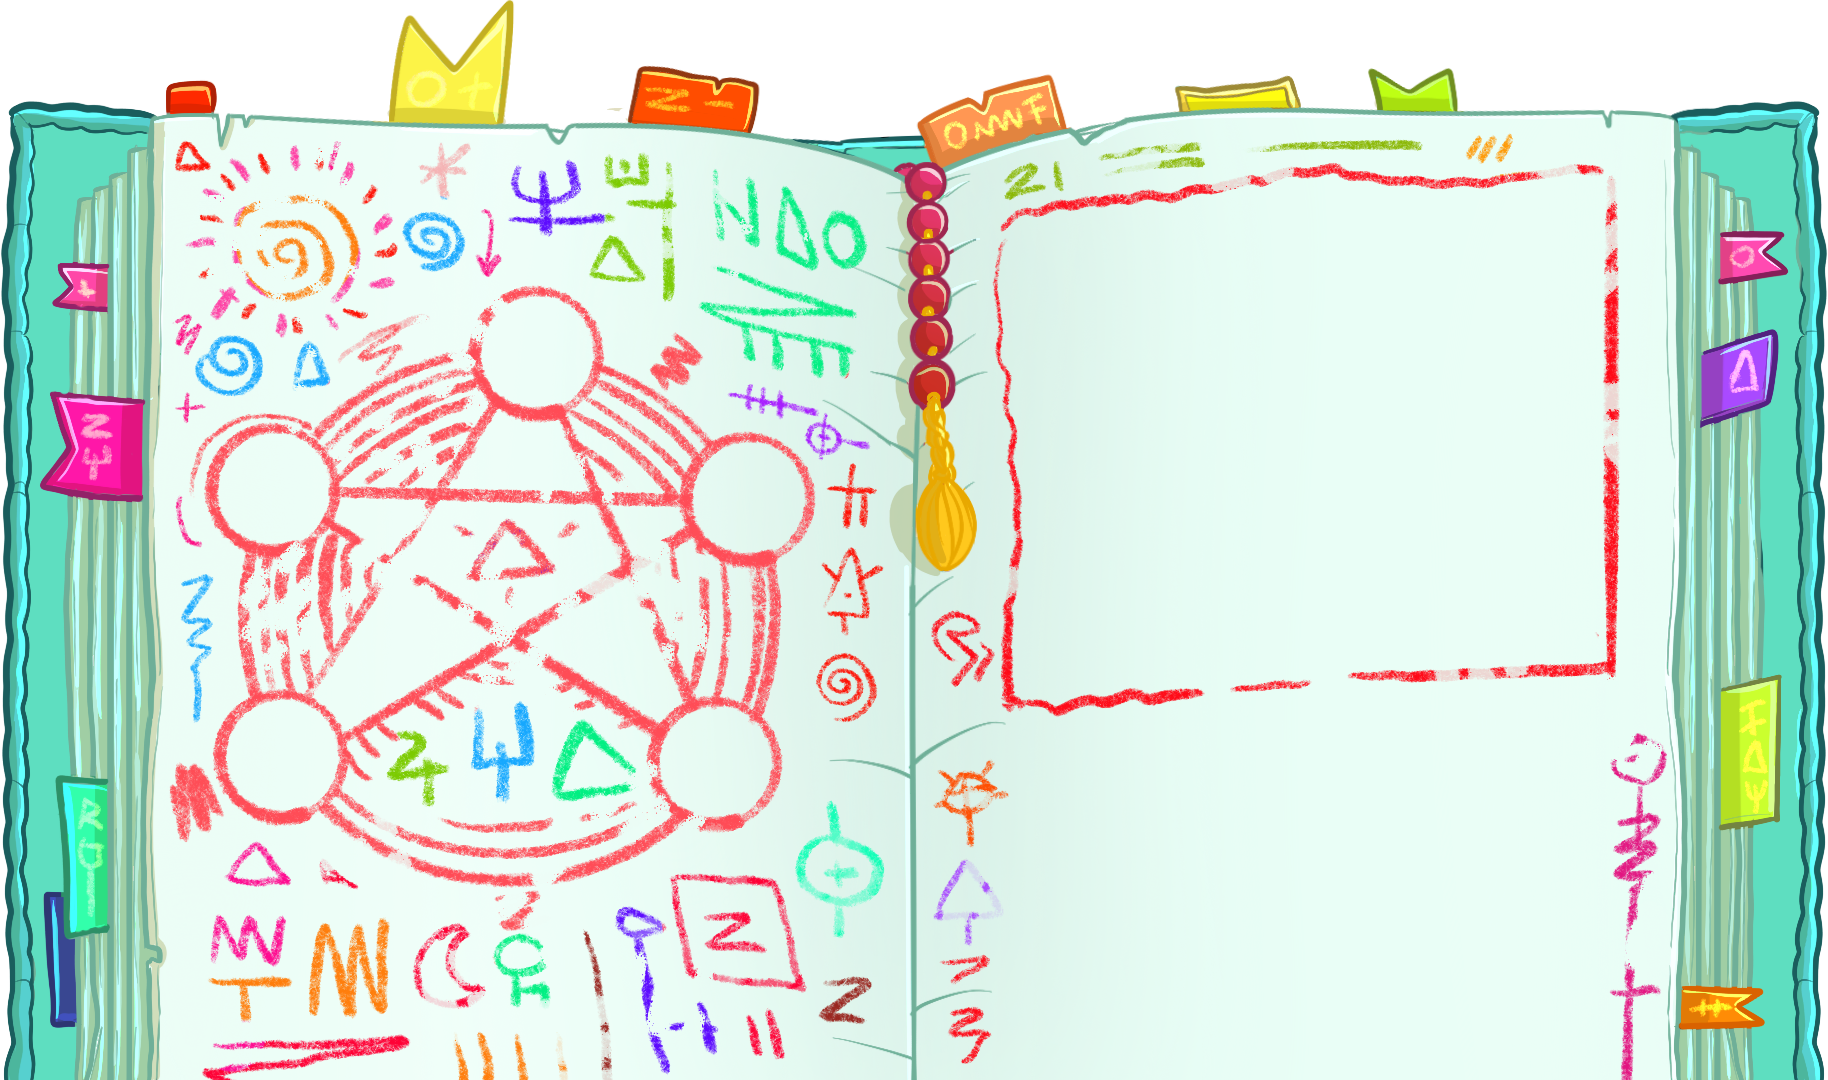
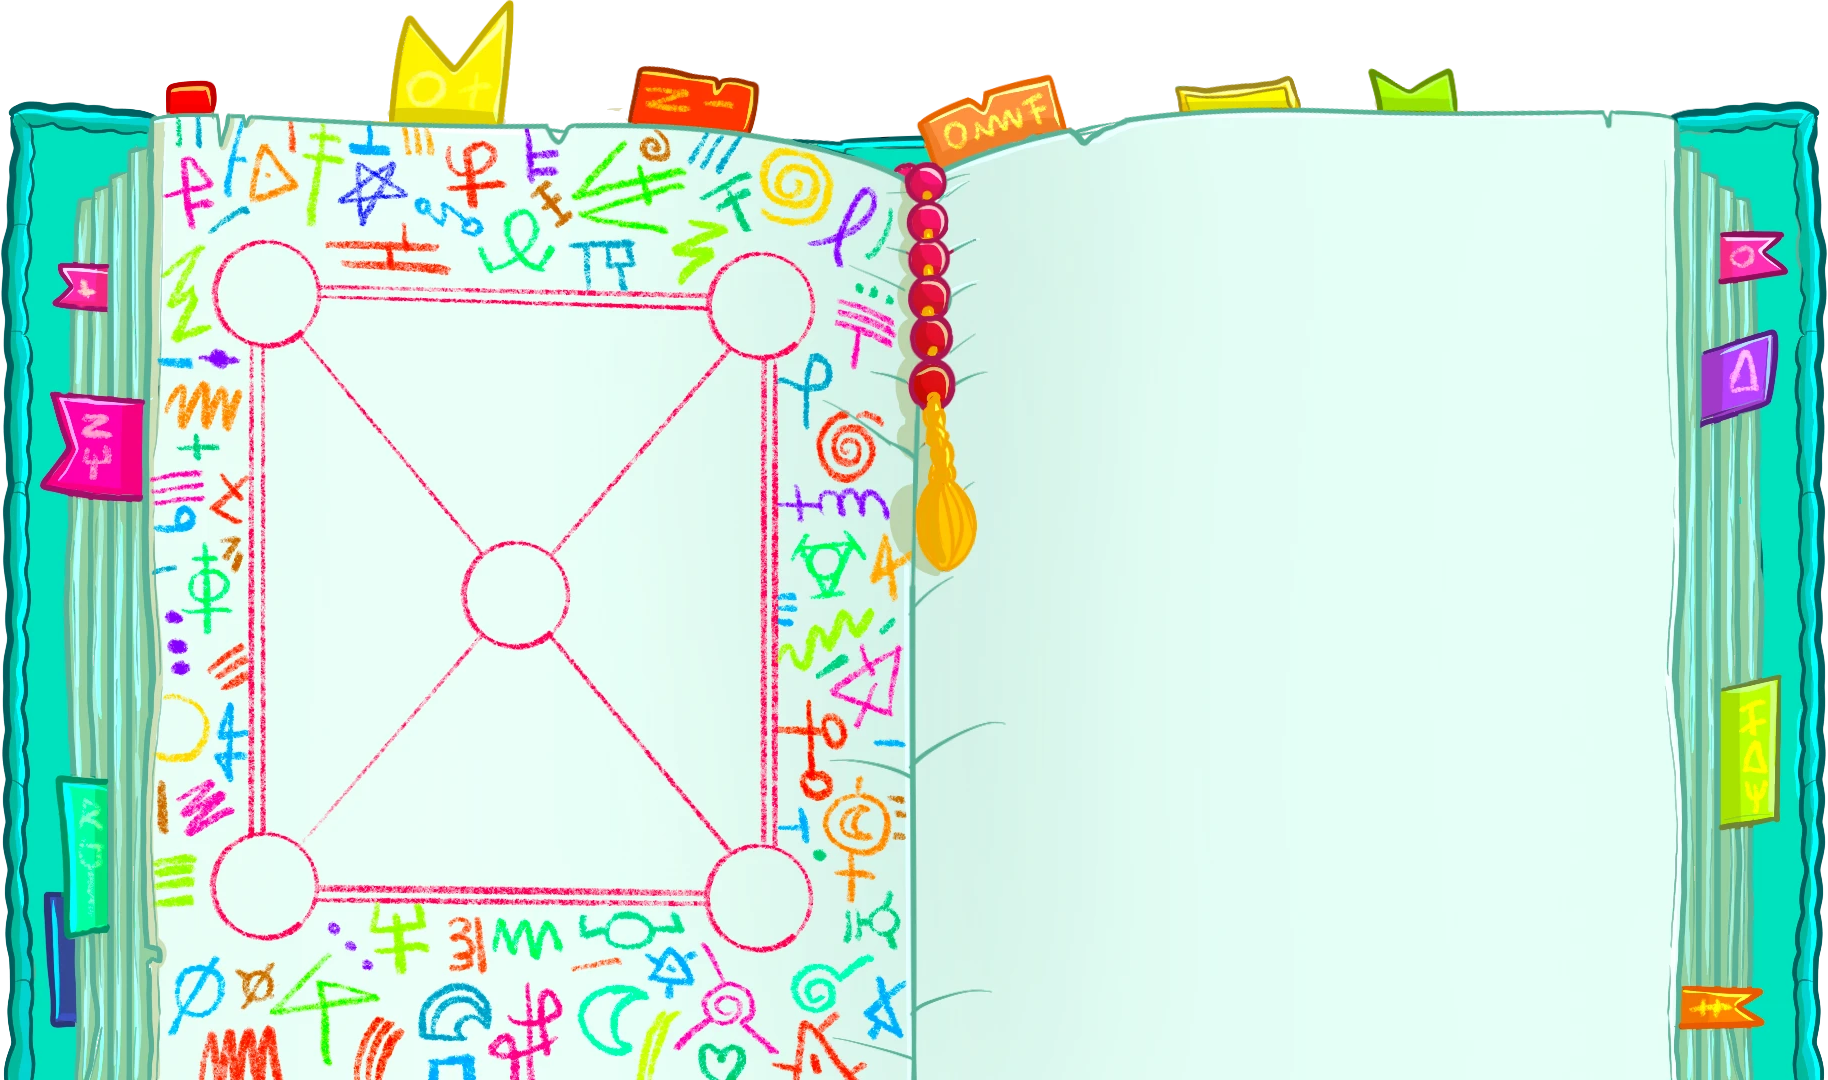
feat: le Grimoire passe au carré, et le sort choisi se repasse au crayon
Nouveau dessin du Grimoire : les cinq ronds forment un carré, Vitalité
au centre et les quatre autres aux coins. La page droite n'a plus de
cadre rouge.

Le sort choisi se désigne au crayon, dans le rouge du pentacle : un bout
d'arc esquissé au survol ou au focus clavier, puis le cercle repassé en
entier et ses rayons, retracés à chaque clic. Le médaillon tient dans
son rond au repos et le recouvre une fois choisi, sans dépasser
l'échelle 1 : l'image reste nette. Les autres pâlissent. La gerbe
d'étincelles et le halo doré disparaissent.

diff --git a/components/SpellPentacle.vue b/components/SpellPentacle.vue
@@ -6,39 +6,53 @@
       v-for="spell in SPELL_IDS"
       :key="spell"
       class="@container group pointer-events-auto absolute aspect-square w-[6.6%] -translate-x-1/2 -translate-y-1/2"
-      :style="ROUNDS[spell]"
+      :style="{ left: ROUNDS[spell].left, top: ROUNDS[spell].top }"
     >
-      <!-- Découvert : son médaillon, et tout le rond qui le choisit. Le choisi
-           grossit et brille de l'or des étincelles du livre. Le survol se lit
-           sur le rond (`group`) : le bouton posé par-dessus le médaillon
-           l'empêcherait d'être survolé lui-même.
+      <!-- Découvert : son médaillon, et tout le rond qui le choisit. Le
+           choix se dit au crayon, comme tout le dessin de la page : un bout
+           d'arc esquissé au survol, le cercle repassé en entier et ses rayons
+           sur le choisi. Les autres pâlissent, à leur taille de repos : leur
+           rond reste rempli. Le survol se lit sur le rond (`group`) — le
+           bouton posé par-dessus le médaillon l'empêcherait d'être survolé
+           lui-même — et le focus clavier fait le même effet.
 
-           Au clic, un saut en dessin animé et une gerbe d'étincelles. Changer
-           de clé remonte le médaillon et la gerbe : l'effet se rejoue à chaque
-           clic, même sur le rond déjà choisi. -->
+           Le choisi, à l'échelle 1, recouvre le rond dessiné, trait rouge
+           compris (Ø 110 px sur l'image, la boîte en fait 120). Les autres
+           tiennent dedans (Ø 100 px), réduits, survol compris. Un `scale`
+           au-dessus de 1 étire le rendu déjà rastérisé, et l'image sort floue.
+           `will-change` fige ce rendu à la taille du médaillon, plafond de tous
+           ses états.
+
+           Au clic, un petit rebond, et le cercle se repasse. Seuls le
+           médaillon et le cercle cliqués changent de clé : remontés, ils
+           rejouent l'effet, même déjà choisis. Les autres, gardés, passent
+           d'un état à l'autre en fondu. -->
       <template v-if="discovered.includes(spell)">
+        <CrayonRing
+          :key="replays[spell]"
+          :drawn="selected === spell"
+          :facing="ROUNDS[spell].facing"
+          class="absolute -left-[30%] -top-[30%] size-[160%] text-pentacle"
+        />
         <SpellMedallion
-          :key="`medallion-${picked?.spell === spell ? picked.key : 0}`"
+          :key="replays[spell]"
           :spell="spell"
           face="mixed"
-          class="size-full transition-[scale] duration-200 group-hover:scale-125"
+          class="absolute inset-0 size-full [will-change:transform,scale] transition-[scale,filter,opacity] duration-200 motion-reduce:transition-none"
           :class="[
             selected === spell
-              ? 'scale-110 [filter:drop-shadow(0_0_4px_#fde68a)_drop-shadow(0_0_12px_#f59e0b)]'
-              : '[filter:drop-shadow(0_2px_3px_rgb(0_0_0/0.35))]',
-            picked?.spell === spell ? 'motion-safe:animate-spell-pick' : '',
+              ? 'motion-safe:animate-spell-pick'
+              : 'scale-[0.73] drop-shadow-[0_2px_3px_rgb(0_0_0/0.35)] group-hover-or-focus:scale-[0.78]',
+            selected && selected !== spell
+              ? 'opacity-60 grayscale-70 group-hover-or-focus:opacity-100 group-hover-or-focus:grayscale-0'
+              : '',
           ]"
-          fallback-class="border-2 border-red-500/60 text-[50cqw] text-red-500"
-        />
-        <SparkleSpray
-          v-if="picked?.spell === spell"
-          :key="`spray-${picked.key}`"
-          :sparks="PICK_SPRAY"
-          class="drop-shadow-[0_0_6px_#fde68a]"
+          fallback-class="border-2 border-pentacle/60 text-[50cqw] text-pentacle"
         />
         <BaseSurfaceButton
           :label="spellLabel(spell)"
           :aria-pressed="selected === spell"
+          class="rounded-full"
           @click="pick(spell)"
         />
       </template>
@@ -50,7 +64,7 @@
         v-else
         role="img"
         aria-label="Sort pas encore découvert"
-        class="flex size-full -rotate-6 select-none items-center justify-center text-[70cqw] font-bold leading-none text-red-500/85"
+        class="flex size-full -rotate-6 select-none items-center justify-center text-[70cqw] font-bold leading-none text-pentacle/85"
       >?</span>
     </div>
   </div>
@@ -70,41 +84,37 @@ defineProps<{
 /** Le sort que la page droite montre, null tant que rien n'est choisi. */
 const selected = defineModel<SpellId | null>({ required: true })
 
-/** Le dernier clic sur un rond : quel sort, et une clé neuve qui rejoue l'effet. */
-const picked = ref<{ spell: SpellId, key: number } | null>(null)
+/** Combien de fois chaque rond a été cliqué : sa clé, qui remonte son médaillon et rejoue l'effet. */
+const replays = ref<Partial<Record<SpellId, number>>>({})
 
 function pick(spell: SpellId): void {
   selected.value = spell
-  picked.value = { spell, key: (picked.value?.key ?? 0) + 1 }
+  replays.value[spell] = (replays.value[spell] ?? 0) + 1
 }
 
 /**
- * La gerbe du clic : dix étincelles en couronne, deux longueurs, qui partent
- * au sommet du saut du médaillon (`animate-spell-pick`, 35 %). En cqw, sur la
- * largeur du rond.
- */
-const PICK_SPRAY = Array.from({ length: 10 }, (_, index) => {
-  const angle = ((index * 36 + (index % 2) * 14) * Math.PI) / 180
-  const distance = index % 2 ? 60 : 90
-
-  return {
-    dx: `${Math.round(Math.cos(angle) * distance)}cqw`,
-    dy: `${Math.round(Math.sin(angle) * distance)}cqw`,
-    size: index % 2 ? '14%' : '20%',
-    delay: `${(0.25 + (index % 3) * 0.04).toFixed(2)}s`,
-  }
-})
-
-/**
- * Le centre de chaque rond, en % de la boîte du livre, relevé sur l'image. Ordre
- * du catalogue, en partant du haut, dans le sens des aiguilles d'une montre. Un
+ * Chaque rond, relevé sur l'image. Vitalité au centre, les quatre autres aux
+ * coins du carré, de haut à droite dans le sens des aiguilles d'une montre. Un
  * sort par rond, tous : un sort ajouté au catalogue ne compile pas sans le sien.
  */
-const ROUNDS: Record<SpellId, { left: string, top: string }> = {
-  VITALITY: { left: '29.3%', top: '32.6%' },
-  RESPITE: { left: '41%', top: '46.3%' },
-  CHRONOMANCY: { left: '39.1%', top: '70.1%' },
-  INDULGENCE: { left: '15.3%', top: '69.6%' },
-  PURGE: { left: '14.8%', top: '45.8%' },
+const ROUNDS: Record<SpellId, {
+  /** Le centre, en % de la boîte du livre. */
+  left: string
+  top: string
+  /**
+   * Le côté le plus dégagé, où le crayon esquisse son arc au survol : en
+   * degrés depuis le haut, dans le sens des aiguilles d'une montre, mesuré en
+   * pixels de l'image. Un coin regarde à l'opposé du centre, dans l'axe de sa
+   * diagonale. Le centre regarde vers le plus large des creux que les
+   * diagonales laissent autour de lui, environ 100° : l'esquisse
+   * (`--crayon-hint`, components/CrayonRing.vue) y tient.
+   */
+  facing: number
+}> = {
+  VITALITY: { left: '28.3%', top: '55%', facing: 90 },
+  RESPITE: { left: '41.7%', top: '28.2%', facing: 40 },
+  CHRONOMANCY: { left: '41.5%', top: '83.1%', facing: 141 },
+  INDULGENCE: { left: '14.6%', top: '81.9%', facing: -139 },
+  PURGE: { left: '14.6%', top: '27.1%', facing: -40 },
 }
 </script>

diff --git a/components/CrayonRing.vue b/components/CrayonRing.vue
@@ -1,0 +1,97 @@
+<template>
+  <!-- Un cercle repassé au crayon gras, comme le pentacle sous lui. La place
+       et la taille viennent de l'appelant ; `overflow-visible` laisse dépasser
+       les traits qui rayonnent. L'esquisse suit le survol de l'ancêtre `group`,
+       ou son focus clavier.
+
+       Le cercle est toujours dessiné en entier ; un masque conique en dévoile
+       la part déjà passée au crayon. Il balaie depuis le bout d'arc de
+       l'esquisse, centré sur `facing` et large de `--crayon-hint`, puis
+       referme le cercle dans le sens des aiguilles d'une montre. Les tirets
+       SVG (`stroke-dashoffset`) le feraient aussi, mais Chrome les affiche mal
+       sous un filtre. -->
+  <svg
+    viewBox="0 0 100 100"
+    class="pointer-events-none overflow-visible duration-300 ease-out [--crayon-hint:90deg] [mask-image:conic-gradient(from_calc(var(--facing)-var(--crayon-hint)/2),#000_var(--crayon-sweep),transparent_0)] [transition-property:--crayon-sweep] motion-reduce:transition-none"
+    :class="drawn
+      ? '[--crayon-sweep:360deg] motion-safe:animate-crayon-draw'
+      : '[--crayon-sweep:0deg] group-hover-or-focus:[--crayon-sweep:var(--crayon-hint)]'"
+    :style="{ '--facing': `${facing}deg` }"
+    aria-hidden="true"
+  >
+    <defs>
+      <!-- Le crayon : un tracé qui tremble (première turbulence, basse
+           fréquence), puis troué de grain (seconde, haute fréquence), comme
+           la cire qui accroche le papier. -->
+      <filter :id="filterId" x="-30%" y="-30%" width="160%" height="160%">
+        <feTurbulence type="fractalNoise" baseFrequency="0.09" numOctaves="2" seed="4" result="wobble" />
+        <feDisplacementMap in="SourceGraphic" in2="wobble" scale="2.5" xChannelSelector="R" yChannelSelector="G" result="wobbly" />
+        <feTurbulence type="fractalNoise" baseFrequency="1.1" numOctaves="1" seed="9" result="grain" />
+        <feColorMatrix in="grain" type="matrix" values="0 0 0 0 0  0 0 0 0 0  0 0 0 0 0  -1.5 0 0 0 1.6" result="holes" />
+        <feComposite in="wobbly" in2="holes" operator="in" />
+      </filter>
+    </defs>
+
+    <g :filter="`url(#${filterId})`" stroke="currentColor" fill="none" stroke-linecap="round">
+      <path :d="RING_PATH" :stroke-width="drawn ? 6 : 4" />
+      <!-- Les rayons jaillissent quand le cercle est presque refermé :
+           `crayon-draw` dure 0,4 s. -->
+      <template v-if="drawn">
+        <line
+          v-for="(ray, index) in RAYS"
+          :key="index"
+          v-bind="ray"
+          stroke-width="4.5"
+          class="origin-center [transform-box:view-box] motion-safe:animate-crayon-ray"
+          :style="{ animationDelay: `${0.3 + index * 0.03}s` }"
+        />
+      </template>
+    </g>
+  </svg>
+</template>
+
+<script setup lang="ts">
+// Le cercle qu'on repasse au crayon autour d'un rond du pentacle : esquissé
+// au survol, tracé en entier quand le rond est choisi, avec quelques traits
+// qui rayonnent. Voir components/SpellPentacle.vue.
+
+defineProps<{
+  /** Le cercle entier et ses rayons. Sinon rien, ou un bout d'arc au survol. */
+  drawn: boolean
+  /**
+   * Où pointe le bout d'arc du survol, en degrés depuis le haut, dans le sens
+   * des aiguilles d'une montre : vers le côté le plus dégagé.
+   */
+  facing: number
+}>()
+
+const filterId = `crayon-${useId()}`
+
+/**
+ * Un point du viewBox, autour de son centre (50, 50). L'angle se compte comme
+ * `facing` et le masque conique : en degrés depuis le haut, dans le sens des
+ * aiguilles d'une montre — un seul repère dans tout le composant.
+ */
+function point(degrees: number, radius: number): [string, string] {
+  const angle = ((degrees - 90) * Math.PI) / 180
+  return [(50 + Math.cos(angle) * radius).toFixed(2), (50 + Math.sin(angle) * radius).toFixed(2)]
+}
+
+/**
+ * Un peu plus d'un tour, de rayon qui flotte : la main ne referme jamais un
+ * cercle pile sur son départ. Le masque choisit ce qui s'en voit ; le départ,
+ * lui, ne fixe que l'endroit où le trait se chevauche, en haut.
+ */
+const RING_PATH = Array.from({ length: 73 }, (_, index) => {
+  const turn = index / 72
+  const [x, y] = point(-10 + turn * 380, 40 + turn * 2 + Math.sin(turn * 11) * 0.8)
+  return `${index ? 'L' : 'M'}${x} ${y}`
+}).join(' ')
+
+/** Les traits qui rayonnent : sept, irréguliers, en couronne hors du cercle. */
+const RAYS = [10, 55, 95, 140, 185, 235, 290].map((degrees, index) => {
+  const [x1, y1] = point(degrees, 47)
+  const [x2, y2] = point(degrees, 47 + (index % 2 ? 6 : 9))
+  return { x1, y1, x2, y2 }
+})
+</script>

diff --git a/assets/css/main.css b/assets/css/main.css
@@ -3,6 +3,12 @@
 @theme {
   --font-sans: 'Platypi', ui-sans-serif, system-ui, sans-serif;
 
+  /* Le rouge du pentacle du Grimoire, choisi à l'œil pour aller avec le
+     crayon de public/images/spellbook.webp : ce qui s'y ajoute par-dessus le
+     dessin (cercle repassé, point d'interrogation) le reprend. Voir
+     components/SpellPentacle.vue. */
+  --color-pentacle: #dc1f5f;
+
   /* Le coffre fermé qui remue, comme si quelque chose bougeait dedans :
      0,6 s de secousses, puis 0,3 s de repos, pour que ça reste un indice et
      non un tremblement continu. Voir components/ChestCard.vue. */
@@ -201,20 +207,37 @@
     100% { opacity: 0; transform: translate(var(--dx), var(--dy)) scale(0.2) rotate(180deg); }
   }
 
-  /* Le médaillon choisi au pentacle du Grimoire, en dessin animé : il se
-     ramasse (anticipation), jaillit étiré en tournant, retombe trop large et
-     tremble avant de se poser. Une lueur dorée le traverse au sommet, quand la
-     gerbe part. Voir components/SpellPentacle.vue. */
-  --animate-spell-pick: spell-pick 0.8s ease-out;
+  /* Le médaillon choisi au pentacle du Grimoire : un petit rebond sur son
+     centre, pendant que le crayon trace son cercle. Il se ramasse sans
+     jamais dépasser sa taille : au-delà de 1, l'image déjà rastérisée
+     s'étirerait et sortirait floue. Voir components/SpellPentacle.vue. */
+  --animate-spell-pick: spell-pick 0.5s ease-out;
 
   @keyframes spell-pick {
     0% { transform: scale(1); }
-    15% { transform: translateY(10%) scale(1.25, 0.75); }
-    35% { transform: translateY(-25%) scale(0.8, 1.3) rotate(-12deg); filter: drop-shadow(0 0 6px #fde68a) drop-shadow(0 0 18px #f59e0b); }
-    55% { transform: translateY(0) scale(1.2, 0.9) rotate(8deg); filter: drop-shadow(0 0 4px #fde68a) drop-shadow(0 0 12px #f59e0b); }
-    70% { transform: scale(0.92, 1.08) rotate(-4deg); }
-    85% { transform: scale(1.04, 0.97) rotate(1deg); }
+    25% { transform: scale(0.86); }
+    55% { transform: scale(1); }
+    75% { transform: scale(0.96); }
     100% { transform: scale(1); }
+  }
+
+  /* Le cercle repassé au crayon du sort choisi : il part du bout d'arc
+     esquissé au survol (`--crayon-hint`) et se referme d'un geste. Voir
+     components/CrayonRing.vue. */
+  --animate-crayon-draw: crayon-draw 0.4s ease-out;
+
+  @keyframes crayon-draw {
+    from { --crayon-sweep: var(--crayon-hint); }
+  }
+
+  /* Un trait qui rayonne autour du cercle tracé : il jaillit du centre et se
+     pose. components/CrayonRing.vue décale chacun d'un délai. */
+  --animate-crayon-ray: crayon-ray 0.3s ease-out both;
+
+  @keyframes crayon-ray {
+    0% { opacity: 0; transform: scale(0.75); }
+    60% { opacity: 1; transform: scale(1.06); }
+    100% { opacity: 1; transform: scale(1); }
   }
 
   /* Le climax du sort qui jaillit, calé sur `animate-emerge` (même durée,
@@ -797,6 +820,31 @@
 
   @keyframes fade-in {
     from { opacity: 0; }
+  }
+}
+
+/* L'angle déjà passé au crayon autour d'un rond du pentacle. Déclaré pour
+   être un angle, pas un texte : il peut alors s'animer. Voir
+   components/CrayonRing.vue. */
+@property --crayon-sweep {
+  syntax: '<angle>';
+  inherits: false;
+  initial-value: 0deg;
+}
+
+/* Un rond du pentacle qu'on désigne : survolé, ou son bouton au focus
+   clavier. Le survol se lit sur l'ancêtre `group`, comme `group-hover`, et
+   seulement là où un pointeur survole vraiment. Voir
+   components/SpellPentacle.vue. */
+@custom-variant group-hover-or-focus {
+  @media (hover: hover) {
+    &:is(:where(.group):hover *) {
+      @slot;
+    }
+  }
+
+  &:is(:where(.group):has(:focus-visible) *) {
+    @slot;
   }
 }
 

diff --git a/pages/index/sorts.vue b/pages/index/sorts.vue
@@ -47,10 +47,9 @@
         Grimoire
       </CampOverlayTitle>
 
-      <!-- La page droite : le cadre rouge dessiné sur l'image montre le sort
-           choisi et de quoi le lancer ; dessous, l'historique de ses derniers
-           lancers. Positions relevées sur l'image,
-           en % du livre. -->
+      <!-- La page droite : en haut, le sort choisi et de quoi le lancer ;
+           dessous, l'historique de ses derniers lancers. Positions relevées sur
+           l'image, en % du livre. -->
       <div class="pointer-events-none absolute inset-0" v-bind="fadeLayer(closing, '0.7s')">
         <BaseCloseButton
           label="Fermer le Grimoire"
@@ -58,8 +57,7 @@
           @click="close"
         />
 
-        <!-- Dans le cadre rouge, un peu en retrait de son trait. Il défile si
-             la description déborde, sur un petit écran. -->
+        <!-- Il défile si la description déborde, sur un petit écran. -->
         <div class="pointer-events-auto absolute bottom-[37%] left-[56.5%] right-[13.5%] top-[18%] overflow-y-auto text-sm leading-snug text-amber-950">
           <p
             v-if="!selected"

diff --git a/specs/ecrans.md b/specs/ecrans.md
@@ -129,8 +129,8 @@ Message de félicitations, précédé du verdict de la dernière question. Phase
 Nommé **Grimoire** côté joueur. Atteignable **au camp seulement** (l'attente, puis le rattrapage tant qu'il n'a pas commencé), par l'icône baguette ou le grimoire du camp. Il s'ouvre **par-dessus le camp**, qui reste affiché dessous : un livre ouvert qui jaillit du bas, grossit et rebondit en se posant, couvert d'étincelles, son titre « Grimoire » au-dessus. Échap, la croix ou un clic à côté le referment. Pas de version mobile pour l'instant. Trois choses :
 
 - Le **pentacle**, page gauche — un rond par sort du catalogue. Un sort jamais obtenu y garde un point d'interrogation et ne se choisit pas ; un sort **découvert** — encore en poche ou déjà lancé — y montre son médaillon, même sans exemplaire. Un clic le choisit, et la page droite le montre.
-- Le **lancer**, page droite, dans le cadre rouge — tant que rien n'est choisi, une invite à choisir au pentacle. Le sort choisi y montre sa description (celle de son infobulle), ses exemplaires en poche et un bouton par catégorie de cible (soi, allié, ennemi ; soi seulement sans équipe), éteints sans exemplaire ou sans lancer restant. La cible réelle n'est pas annoncée avant : le tirage est pondéré mais imprévisible. Elle l'est après, au retour du lancer. Deux lancers par attente, quels qu'ils soient : les boutons s'éteignent une fois les deux dépensés, sans afficher le nombre restant.
-- L'**historique**, sous le cadre — les cinq derniers lancers du sort choisi, une ligne chacun : sa cible, et le jour (« Aujourd'hui », « Hier », « Il y a 3 jours », puis la date passé une semaine). Rien tant qu'aucun sort n'est choisi. C'est là que le lanceur apprend qui il a touché.
+- Le **lancer**, page droite, en haut — tant que rien n'est choisi, une invite à choisir au pentacle. Le sort choisi y montre sa description (celle de son infobulle), ses exemplaires en poche et un bouton par catégorie de cible (soi, allié, ennemi ; soi seulement sans équipe), éteints sans exemplaire ou sans lancer restant. La cible réelle n'est pas annoncée avant : le tirage est pondéré mais imprévisible. Elle l'est après, au retour du lancer. Deux lancers par attente, quels qu'ils soient : les boutons s'éteignent une fois les deux dépensés, sans afficher le nombre restant.
+- L'**historique**, dessous — les cinq derniers lancers du sort choisi, une ligne chacun : sa cible, et le jour (« Aujourd'hui », « Hier », « Il y a 3 jours », puis la date passé une semaine). Rien tant qu'aucun sort n'est choisi. C'est là que le lanceur apprend qui il a touché.
 
 Hors du camp, la baguette est désactivée et la page n'est pas atteignable, URL comprise : l'inventaire n'est donc pas consultable. Si la partie quitte le camp pendant qu'il est ouvert, le Grimoire se ferme de lui-même. Le joueur voit passer son objet sur l'écran verdict, puis le retrouve à sa prochaine mort.
 
